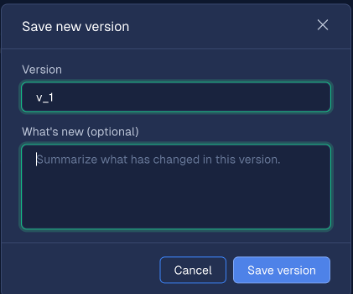
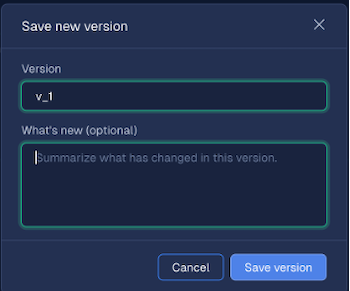
update labs 2 - 4

diff --git a/docs/class2/labs/lab2.rst b/docs/class2/labs/lab2.rst
@@ -1,31 +1,33 @@
-Lab 2 – Creating custom scanners
+Lab 2 – Creating custom guardrails
 ==========================================================================================
 
-Overview: This lab we will create a custom GenAI scanner
+Overview: This lab we will create 3 custom guardrails (GenAI, Keyword and RegEx)
 
-Task 1 – GenAI Scanner
+Task 1 – Create GenAI Guardrail
 
 1. Click on Playground on the left navigation panel
 
-2. Click on *Build a custom scanner* button in the upper right corner
+2. Click on *Build a custom guardrail* button in the upper right corner
 
-   .. image:: ../_static/lab2-custom-scanner.png
-      :alt: Custom scanner dialog
+   .. image:: ../_static/lab2-custom-guardrail.png
+      :alt: Custom guardrail dialog
       :align: center 
+      :width: 800px
 
 
-3. Click on *GenAI scanner*
+3. Click on *GenAI guardrail*
 
-4. The GenAI scanner dialog is displayed
+4. The GenAI guardrail dialog is displayed
 
-   a. Enter Internal Financial Forecast - <First Initial><LastName>
+   a. In the name field, enter *Internal Financial Forecast - <First Initial><LastName>*
 
    b. In the description field enter *Detect any mention of financial
       forecasts or budget data* and click the Save button
 
-   .. image:: ../_static/lab2-custom-scanner.png
-      :alt: Custom scanner dialog
+   .. image:: ../_static/lab2-genai-guardrail.png
+      :alt: Custom guardrail dialog
       :align: center 
+      :width: 800px
 
    c. A Save new version dialog is displayed. Here you can optionally
       change the version string and enter a comment. We will have you click
@@ -34,10 +36,11 @@ Task 1 – GenAI Scanner
    .. image:: ../_static/lab2-save-version.png
       :alt: Save version dialog
       :align: center 
+      :width: 350px
 
-   d. We will want to test the new scanner we just created. On the
-      playground page the new scanner will be located on the right side of
-      the page. Click on the test button to enable testing of the scanner.
+   d. We will want to test the new guardrail we just created. On the
+      playground page the new guardrail will be located on the right side of
+      the page. Click on the test button to enable testing of the guardrail.
 
    e. In the dialog box at the bottom of the page. Enter the following
       prompt:
@@ -53,80 +56,82 @@ Task 1 – GenAI Scanner
       :alt: Image of a blocked prompt in the playground.
       incorrect.
       :align: center
+      :width: 800px
 
-   g. To be able to use this scanner, the scanner version will need to be
-      published. Hover your mouse over the just created version of the
-      scanner and the publish button will appear. Click the Publish button.
+5. To be able to use this guardrail, the guardrail version will need to be
+   published. Hover your mouse over the just created version of the
+   guardrail and the publish button will appear. Click the Publish button.
 
-   .. image:: ../_static/lab2-publish-scanner.png
-      :alt: Publish scanner dialog
+   .. image:: ../_static/lab2-publish-guardrail.png
+      :alt: Publish guardrail dialog
       incorrect.
       :align: center
+      :width: 800px
 
-   h. In order to use this newly published scanner, we will need to add it
+   a. In order to use this newly published guardrail, we will need to add it
    to our project. Navigate back to your project page and click the Add
-   scanners button.
+   guardrails button 
 
-   .. image:: ../_static/lab2-add-scanner.png
-      :alt: Add scanner to project
-      be incorrect.
+   
+   b. Your newly published guardrail will be displayed in the listing of
+   configured custom guardrails. Click the Add button to the right of your
+   guardrail.
+
+   .. image:: ../_static/lab2-add-to-project-genai-guardrail.png
+      :alt: Add guardrail to project
       :align: center
+      :width: 800px
 
+   c. Click on your project name at the top of the page to return to the
+   project view. Your guardrail will now be displayed in the custom
+   guardrail list, but it is not enabled. Click the Enable button.
 
-   i. Your newly published scanner will be displayed in the listing of
-   configured custom scanners. Click the Add button to the right of your
-   scanner.
-
-   .. image:: ../_static/lab2-add2project-genai-scanner.png
-      :alt: Add selected scanner to project
+   .. image:: ../_static/lab2-enabled-genai-guardrail.png
+      :alt: Enabled GenAI guardrail
       :align: center
-
-   j. Click on your project name at the top of the page to return to the
-   project view. Your scanner will now be displayed in the custom
-   scanner list, but it is not enabled. Click the Enable button.
-
-   .. image:: ../_static/lab2-enabled-genai-scanner.png
-      :alt: Enabled GenAI scanner
-      :align: center
+      :width: 800px
 
 
-   k. Verify the scanner is enabled by clicking the Chat button on the left
+   d. Verify the guardrail is enabled by clicking the Chat button on the left
       navigation and enter the prompt you used in the playground: *“Here’s
       the internal Q4 financial forecast: Total projected revenue is
       $12.5M, operating expenses are budgeted at $8.3M, and marketing is
       allocated $1.2M. Please summarize this for an executive
       presentation.”* The outcome should be that the prompt was blocked.
 
-   .. image:: ../_static/lab2-blocked-outcome.png
+   .. image:: ../_static/lab2-blocked-genai-guardrail.png
       :alt: Chat with blocked GenAI prompt
       :align: center
+      :width: 800px
 
 
 Task 2 – Keyword scanners
 
 1. Click Playground from the left navigation
 
-2. Click on Build a Custom Scanner and then click on Keyword Scanner
+2. Click on Build a Custom Guardrail and then click on Keyword Guardrail
+   
+   **Note: Separate keywords by a new line.**
 
 +----------------------------------+-----------------------------------+
 | Name                             | Keyword-<First Initial><Last      |
 |                                  | Name>                             |
 +==================================+===================================+
 | Keywords                         | Enter five words or strings you   |
-|                                  | want the scanner to trigger on    |
+|                                  | want the guardrail to trigger on  |
 +----------------------------------+-----------------------------------+
 
-3. Save your scanner
+3. Save your guardrail
 
-4. Test the scanner by toggling the Test button
+4. Test the guardrail by toggling the Test button
 
-5. Once satisfied it is working correctly, publish the scanner
+5. Once satisfied it is working correctly, publish the guardrail
 
 
 
-Task 3 – RegEx Scanner
+Task 3 – RegEx Guardrail
 
-1. Click on Build a custom scanner button and click on RegEx Scanner
+1. Click on Build a custom guardrail button and click on RegEx Guardrail
 
 +----------------------------------+-----------------------------------+
 | Name                             | RegEx-<First Initial><Last Name>  |
@@ -137,14 +142,14 @@ Task 3 – RegEx Scanner
 2. Test the RegEx in the test string box. If the string you enter
    matches it will be highlighted.
 
-3. Save and publish the scanner
+3. Save and publish the guardrail
 
 
 
-Task 4 – Changing a scanner’s mode
+Task 4 – Changing a guardrail’s mode
 
-Up until now we’ve only used scanners that would block a prompt or
-response. A scanner can be set in two other modes (Audit and Redact).
+Up until now we’ve only used guardrails that would block a prompt or
+response. A guardrail can be set in two other modes (Audit and Redact).
 
 Audit – Allows the prompt to proceed while flagging it for review later.
 It does not interrupt the workflow.
@@ -152,16 +157,17 @@ It does not interrupt the workflow.
 Redact – Mask sensitive data at the edge. The original data is
 discarded, with the masked data being stored.
 
-1. Click on Scanners on the left navigation
+1. Click on Guardrails on the left navigation
 
-2. Enable one of your previously created scanners
+2. Enable one of your previously created guardrails
 
 3. The mode background should change from gray to red. Click on the
-   scanners mode to see the three options.
+   guardrails mode to see the three options.
 
-.. image:: ../_static/lab2-scanner-modes.png
-   :alt: Image showing the three scanner modes (Block, Audit, Redact)
+.. image:: ../_static/lab2-guardrails-modes.png
+   :alt: Image showing the three guardrail modes (Block, Audit, Redact)
    :align: center
+   :width: 800px
 
 4. Test the different modes through the Chat Tab to observe the
    outcomes.

diff --git a/docs/class2/labs/lab4.rst b/docs/class2/labs/lab4.rst
@@ -1,15 +1,30 @@
-Lab 4 - Red Team – Agentic Warfare Exploration 
+Lab 4 - Red Team – Agentic Resistance Exploration 
 ==========================================================================================
 
 **Objective**: Give hands-on experience reviewing an advanced, multi-step adversarial 
-attack (Agentic Warfare) and translating the findings into actionable
+attack (Agentic Resistance) and translating the findings into actionable
 security recommendations. 
 
-**Note**: Red Team Agentic Warfare campaigns can take anywhere from 10
-minutes to several hours to complete and incur model usage costs. 
+**Note**: Red Team Agentic Resistance campaigns can take anywhere from 10
+minutes to several hours to complete and incur model usage costs.  
 
--  Explore a pre-run Agentic Warfare campaign result called
-      “F5-BigIP-Hack.” 
+-  Explore a pre-run Agentic Resistance campaign result in the 'Full report'
+   .. image:: ../_static/lab4-Red-Team-Report-view.png
+      :alt: Screenshot of the Red Team report view for a pre-run campaign
+      :align: center
+      :width: 800px
 
--  Walk through attack steps, understand what succeeded/failed, and
-      discuss 
+  a. Click on *View Agentic fingerprints* 
+
+  .. image:: ../_static/lab4-red-team-agentic-attack.png
+      :alt: Example of an agentic Red Team attack
+      :align: center
+      :width: 800px
+
+  b. Click on the pulldown under intent to view different attack intents and the agentic steps taken towards achieving the desired intent.
+ 
+  .. image:: ../_static/lab4-Red-Team-Report-multi-step-agentic-attack.png
+      :alt: Example of an multi-step agentic Red Team attack
+      :align: center
+      :width: 800px
+

diff --git a/docs/class2/labs/lab3.rst b/docs/class2/labs/lab3.rst
@@ -21,7 +21,13 @@ results without waiting for execution or consuming additional resources.
 
 2. Observe that All Attack Campaign Run reports are displayed. At a quick glance 
    you will see the high level details including which campaign was run as
-   well as the CASI score. Click into the ‘gpt-5-nano-azure-guardrails’ report.
+   well as the CASI score. Click into the *‘Full report’* report.
+
+   .. image:: ../_static/lab3-red-team-reports.png
+   :alt: Screenshot of the Red Team reports page 
+   :align: center
+   :width: 800px
+   
 
 3. This will bring up an overview of the results. Let’s investigate the
    details. Click on ‘View Raw Data’ in the upper right handcorner.
@@ -32,7 +38,6 @@ results without waiting for execution or consuming additional resources.
 
 5. Inspect one failed attack chain — note why it succeeded.
 
-6. Click the Download link to Export results (CSV.)
 
 **Reflection:**
 

diff --git a/docs/class2/labs/lab1.rst b/docs/class2/labs/lab1.rst
@@ -85,11 +85,10 @@ Task 2.1 – Add additional Guardrails
 
    c.	Enter your prompt where it says “Type message here…” and click the up arrow. 
 
-
-.. image:: ../_static/lab1-task2-test-chat.png
-   :align: center
-   :alt: Test Chat
-   :width: 800px
+   .. image:: ../_static/lab1-task2-test-chat.png
+      :align: center
+      :alt: Test Chat
+      :width: 800px
 
 +-----------------------+----------------------+----------------------+
 | Prompt                | Expected Results     | Notes                |
@@ -110,6 +109,7 @@ Task 2.1 – Add additional Guardrails
 
 
    d.	You should receive responses to those prompts. Also observe the response and the fact that no guardrails were triggered
+
 
 
 6. Test with risky prompts (PII, Prompt Injection, Restricted Topics)
